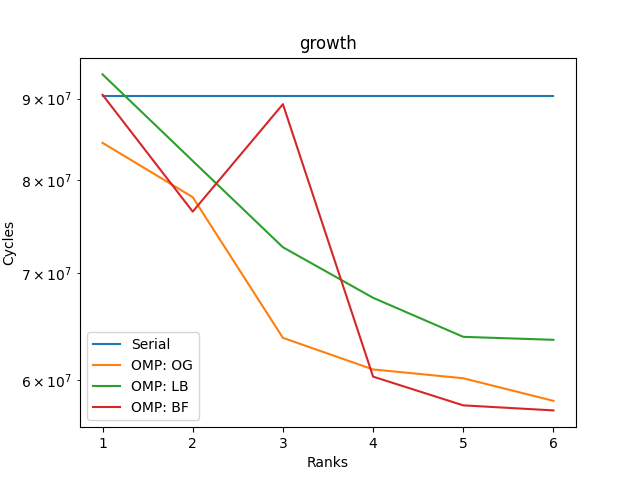
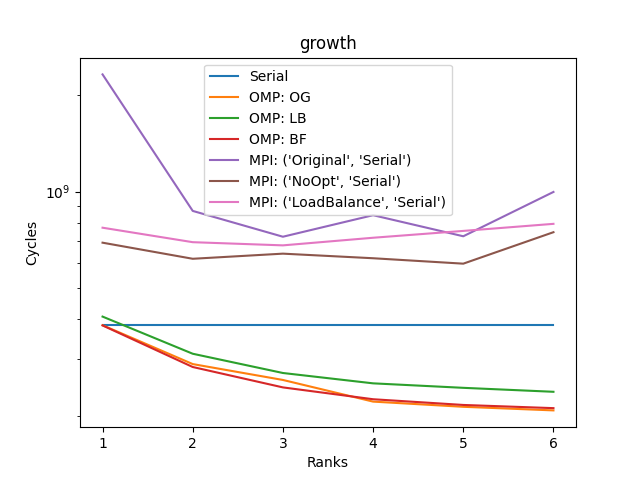
MPI Naming Refactor

diff --git a/src/LibMPIVerifier/verifyOriginal.cpp b/src/LibMPIVerifier/verifyOriginal.cpp
@@ -1,22 +1,18 @@
 
-#ifdef PRINT_DEBUG
-#include <iostream>
-#endif 
-
 #include<mpi.h>
 
 #include "../Proof/Proof.hpp"
 #include "../SharedVerifier/SharedVerifier.hpp"
 
-#include "LibParallelVerifier.hpp"
+#include "LibMPIVerifier.hpp"
 #include "MPIUtil.hpp"
 
 using MPIUtil::getRankSizes;
 using MPIUtil::getRankDisplacements;
 
-bool ParallelVerifier::verifyParallelNoOpt(const Proof& p, LayerMapper mapper){
+bool ParallelVerifier::verifyParallelOriginal(const Proof& p,
+                                              LayerMapper mapper){
     auto [layerMap, depthMap] = mapper(p);
-
     
     //If there are nodes outside the depth map, they don't follow from
     //assumptions and the proof is invalid
@@ -26,12 +22,6 @@ bool ParallelVerifier::verifyParallelNoOpt(const Proof& p, LayerMapper mapper){
     Assumptions assumptions;
     LayerMap::const_iterator layerIter = layerMap.begin();
     for (int layer = 0; layerIter != layerMap.end(); layer++, layerIter++){
-
-#ifdef PRINT_DEBUG
-        std::cout<<"Rank " << myRank <<": Verifying layer: "<< layer << \
-        "/" << layerMap.size() << " With assumptions: " << \
-        SharedVerifier::assumptionsToString(assumptions) << std::endl;
-#endif 
         const std::unordered_set<VertId>& layerNodes = *layerIter;
         const size_t layerSize = layerNodes.size();
         std::vector<int> rankSizes = getRankSizes(layerSize);
@@ -41,38 +31,34 @@ bool ParallelVerifier::verifyParallelNoOpt(const Proof& p, LayerMapper mapper){
         int myNodeCount = rankSizes[myRank];            
         int myDisplacement = rankDisplacements[myRank];
 
+        std::vector<uint8_t> verifiedSendBuf(myNodeCount);
+        std::vector<uint8_t> verifiedReceiveBuf(layerSize);
+        
         using NodeIterator = std::unordered_set<VertId>::const_iterator;
         NodeIterator nodeIter = layerNodes.begin();
         std::advance(nodeIter, myDisplacement);
-        
-        bool rankFailed = false;
-        std::list<VertId> myNodes; //List of nodes we need to update assumptions
+
+        std::list<VertId> myNodes;
         for(size_t i = 0; i < myNodeCount; i++, nodeIter++){
             myNodes.push_back(*nodeIter);
-            assumptions[*nodeIter] = std::unordered_set<VertId>();
-            bool success = SharedVerifier::verifyVertex(p, *nodeIter, assumptions, assumptions[*nodeIter]);
-            rankFailed = rankFailed || !success;
-            if (rankFailed) {
-                break;
+            assumptions[(*nodeIter)] = std::unordered_set<VertId>();
+            const bool result = SharedVerifier::verifyVertex(p, *nodeIter, assumptions, assumptions[*nodeIter]);
+            std::cout << std::endl;
+            verifiedSendBuf[i] = (uint8_t)result;
+            if(!verifiedSendBuf[i]){
+                std::cout<<"Layer: "<<layer << ", Node:"<<*nodeIter<<std::endl; 
             }
-
-#ifdef PRINT_DEBUG
-            if(rankFailed){
-                std::cout<<"Failed on node: " << p.nodeLookup.at((VertId)*nodeIter).toString() << std::endl;
-                std::cout<<"With assumptions: " << SharedVerifier::assumptionsToString(assumptions) << std::endl;
-            }
-#endif
         }
 
-        bool verificationFailure;
-        MPI_Allreduce((void*)&rankFailed, (void*)&verificationFailure, \
-         1, MPI_CXX_BOOL, MPI_LOR, MPI_COMM_WORLD);
-
-        if(verificationFailure){
-#ifdef PRINT_DEBUG
-            MPIUtil::debugPrint("Verification failed on layer" + std::to_string(layer), 0);
-#endif
-            return false;
+        MPI_Allgatherv((void*)verifiedSendBuf.data(), myNodeCount,\
+                       MPI_UINT8_T, verifiedReceiveBuf.data(),\
+                       rankSizes.data(), rankDisplacements.data(),\
+                       MPI_UINT8_T, MPI_COMM_WORLD);
+        
+        for(size_t i = 0; i < layerSize; i++){
+            if(!verifiedReceiveBuf[i]){
+                return false;
+            }
         }
 
         //Assumption Updates --------------------------------------------------
@@ -80,7 +66,7 @@ bool ParallelVerifier::verifyParallelNoOpt(const Proof& p, LayerMapper mapper){
         if (layer == layerMap.size()-1){ //Ignore updates on final layer
             break;
         }
-
+        
         ParallelVerifier::updateAssumptions(assumptions, myNodes);
     }
 

diff --git a/src/LibMPIVerifier/verifyNoOpt.cpp b/src/LibMPIVerifier/verifyNoOpt.cpp
@@ -1,18 +1,22 @@
 
+#ifdef PRINT_DEBUG
+#include <iostream>
+#endif 
+
 #include<mpi.h>
 
 #include "../Proof/Proof.hpp"
 #include "../SharedVerifier/SharedVerifier.hpp"
 
-#include "LibParallelVerifier.hpp"
+#include "LibMPIVerifier.hpp"
 #include "MPIUtil.hpp"
 
 using MPIUtil::getRankSizes;
 using MPIUtil::getRankDisplacements;
 
-bool ParallelVerifier::verifyParallelOriginal(const Proof& p,
-                                              LayerMapper mapper){
+bool ParallelVerifier::verifyParallelNoOpt(const Proof& p, LayerMapper mapper){
     auto [layerMap, depthMap] = mapper(p);
+
     
     //If there are nodes outside the depth map, they don't follow from
     //assumptions and the proof is invalid
@@ -22,6 +26,12 @@ bool ParallelVerifier::verifyParallelOriginal(const Proof& p,
     Assumptions assumptions;
     LayerMap::const_iterator layerIter = layerMap.begin();
     for (int layer = 0; layerIter != layerMap.end(); layer++, layerIter++){
+
+#ifdef PRINT_DEBUG
+        std::cout<<"Rank " << myRank <<": Verifying layer: "<< layer << \
+        "/" << layerMap.size() << " With assumptions: " << \
+        SharedVerifier::assumptionsToString(assumptions) << std::endl;
+#endif 
         const std::unordered_set<VertId>& layerNodes = *layerIter;
         const size_t layerSize = layerNodes.size();
         std::vector<int> rankSizes = getRankSizes(layerSize);
@@ -31,34 +41,38 @@ bool ParallelVerifier::verifyParallelOriginal(const Proof& p,
         int myNodeCount = rankSizes[myRank];            
         int myDisplacement = rankDisplacements[myRank];
 
-        std::vector<uint8_t> verifiedSendBuf(myNodeCount);
-        std::vector<uint8_t> verifiedReceiveBuf(layerSize);
-        
         using NodeIterator = std::unordered_set<VertId>::const_iterator;
         NodeIterator nodeIter = layerNodes.begin();
         std::advance(nodeIter, myDisplacement);
-
-        std::list<VertId> myNodes;
+        
+        bool rankFailed = false;
+        std::list<VertId> myNodes; //List of nodes we need to update assumptions
         for(size_t i = 0; i < myNodeCount; i++, nodeIter++){
             myNodes.push_back(*nodeIter);
-            assumptions[(*nodeIter)] = std::unordered_set<VertId>();
-            const bool result = SharedVerifier::verifyVertex(p, *nodeIter, assumptions, assumptions[*nodeIter]);
-            std::cout << std::endl;
-            verifiedSendBuf[i] = (uint8_t)result;
-            if(!verifiedSendBuf[i]){
-                std::cout<<"Layer: "<<layer << ", Node:"<<*nodeIter<<std::endl; 
+            assumptions[*nodeIter] = std::unordered_set<VertId>();
+            bool success = SharedVerifier::verifyVertex(p, *nodeIter, assumptions, assumptions[*nodeIter]);
+            rankFailed = rankFailed || !success;
+            if (rankFailed) {
+                break;
             }
+
+#ifdef PRINT_DEBUG
+            if(rankFailed){
+                std::cout<<"Failed on node: " << p.nodeLookup.at((VertId)*nodeIter).toString() << std::endl;
+                std::cout<<"With assumptions: " << SharedVerifier::assumptionsToString(assumptions) << std::endl;
+            }
+#endif
         }
 
-        MPI_Allgatherv((void*)verifiedSendBuf.data(), myNodeCount,\
-                       MPI_UINT8_T, verifiedReceiveBuf.data(),\
-                       rankSizes.data(), rankDisplacements.data(),\
-                       MPI_UINT8_T, MPI_COMM_WORLD);
-        
-        for(size_t i = 0; i < layerSize; i++){
-            if(!verifiedReceiveBuf[i]){
-                return false;
-            }
+        bool verificationFailure;
+        MPI_Allreduce((void*)&rankFailed, (void*)&verificationFailure, \
+         1, MPI_CXX_BOOL, MPI_LOR, MPI_COMM_WORLD);
+
+        if(verificationFailure){
+#ifdef PRINT_DEBUG
+            MPIUtil::debugPrint("Verification failed on layer" + std::to_string(layer), 0);
+#endif
+            return false;
         }
 
         //Assumption Updates --------------------------------------------------
@@ -66,7 +80,7 @@ bool ParallelVerifier::verifyParallelOriginal(const Proof& p,
         if (layer == layerMap.size()-1){ //Ignore updates on final layer
             break;
         }
-        
+
         ParallelVerifier::updateAssumptions(assumptions, myNodes);
     }
 

diff --git a/benchmarks/quickbench.py b/benchmarks/quickbench.py
@@ -11,9 +11,9 @@ proof = "../proofs/hyperslate/benchmarks/Tree14.slt"
 ranks = [1, 2, 3, 4, 5, 6] #Num Ranks to test
 #ParallelVerifier Args to test with
 MPIArgs = [
-#    ("Original", "Serial"),
-#    ("NoOpt", "Serial"),
-#    ("LoadBalance", "Serial")
+    ("Original", "Serial"),
+    ("NoOpt", "Serial"),
+    ("LoadBalance", "Serial")
 ]
 
 OMPArgs = [
@@ -48,7 +48,7 @@ for method in OMPArgs:
 for arg in MPIArgs:
     cycles = []
     for rank in ranks:
-        rawOutput = subprocess.check_output(['mpirun', '-N', str(rank), '../build/bin/ParallelVerifier', proof] + list(arg))
+        rawOutput = subprocess.check_output(['mpirun', '-N', str(rank), '../build/bin/MPIVerifier', proof] + list(arg))
         cycle = extractCycles(rawOutput)
         cycles.append(cycle)
         print("MPI", str(arg), "Rank", rank, "Cycles", cycle)

diff --git a/src/MPIVerifier.cpp b/src/MPIVerifier.cpp
@@ -4,8 +4,8 @@
 #include<unordered_map>
 #include<stdexcept>
 
-#include "LibParallelVerifier/LibParallelVerifier.hpp"
-#include "LibParallelVerifier/MPIUtil.hpp"
+#include "LibMPIVerifier/LibMPIVerifier.hpp"
+#include "LibMPIVerifier/MPIUtil.hpp"
 
 namespace pv = ParallelVerifier;
 

diff --git a/src/LibMPIVerifier/assumptionUpdates.cpp b/src/LibMPIVerifier/assumptionUpdates.cpp
@@ -5,7 +5,7 @@
 
 #include "../SharedVerifier/SharedVerifier.hpp"
 
-#include "LibParallelVerifier.hpp"
+#include "LibMPIVerifier.hpp"
 #include "MPIUtil.hpp"
 
 using MPIUtil::getRankDisplacements;

diff --git a/src/LibMPIVerifier/verifyLoadBalance.cpp b/src/LibMPIVerifier/verifyLoadBalance.cpp
@@ -1,7 +1,7 @@
 
 #include <mpi.h>
 
-#include "LibParallelVerifier.hpp"
+#include "LibMPIVerifier.hpp"
 #include "MPIUtil.hpp"
 
 using MPIUtil::getRankSizes, MPIUtil::getRankDisplacements;

diff --git a/src/LibMPIVerifier/getLayersMPI.cpp b/src/LibMPIVerifier/getLayersMPI.cpp
@@ -3,7 +3,7 @@
 #include<mpi.h>
 #include"../Proof/Proof.hpp"
 
-#include"LibParallelVerifier.hpp"
+#include"LibMPIVerifier.hpp"
 #include"MPIUtil.hpp"
 
 using MPIUtil::getRankSizes;

diff --git a/src/LibMPIVerifier/MPIUtil.hpp b/src/LibMPIVerifier/MPIUtil.hpp
@@ -2,7 +2,7 @@
 #pragma once
 
 #include<vector>
-#include"LibParallelVerifier.hpp"
+#include"LibMPIVerifier.hpp"
 
 extern int myRank;
 extern int numRanks;

diff --git a/src/LibMPIVerifier/MPIUtil.cpp b/src/LibMPIVerifier/MPIUtil.cpp
@@ -1,7 +1,7 @@
 
 
 
-#include"LibParallelVerifier.hpp"
+#include"LibMPIVerifier.hpp"
 #include"MPIUtil.hpp"
 
 #include<mpi.h>

diff --git a/src/README.md b/src/README.md
@@ -11,7 +11,7 @@ dot -Tpng -o build/ParallelVerifier.png build/ParallelVerifier.dot
 ```
 
 ### Libs
-* LibParallelVerifier - The API for MPI based parallel verifier
+* LibMPIVerifier - The API for MPI based parallel verifier
 * Proof - Library containing class for representing and modifying graph based
 proofs
 * ProofIO - API for creating Proof data structures from Hyperslate and
@@ -22,7 +22,7 @@ represent all of our formulae with.
 used by both parallel verifier and serial verifier.
 
 ### Executables 
-* ParallelVerifier.cpp - A command line wrapper for LibParallelVerifier 
-(LibParallelVerifier does the actual verification)
+* ParallelVerifier.cpp - A command line wrapper for LibMPIVerifier 
+(LibMPIVerifier does the actual verification)
 * SerialVerifier.cpp - A command line program for serial verification 
 (Not an API wrapper, does the actual verification) 
